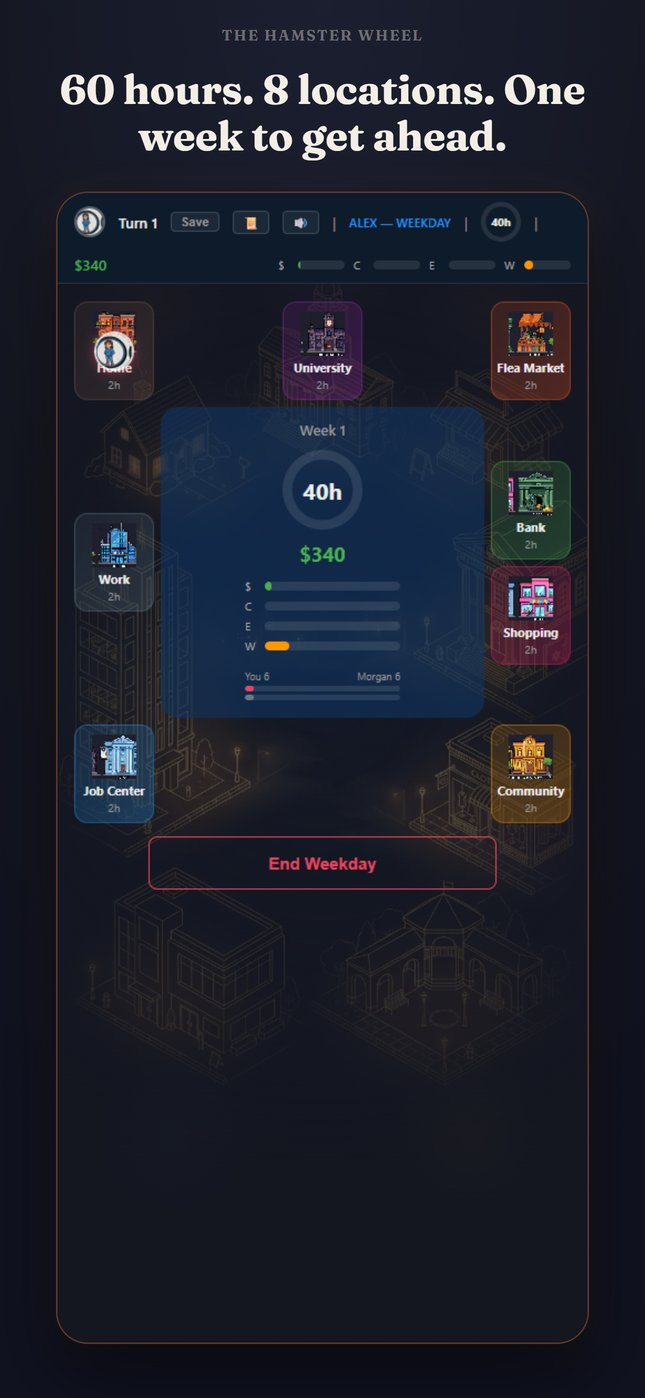
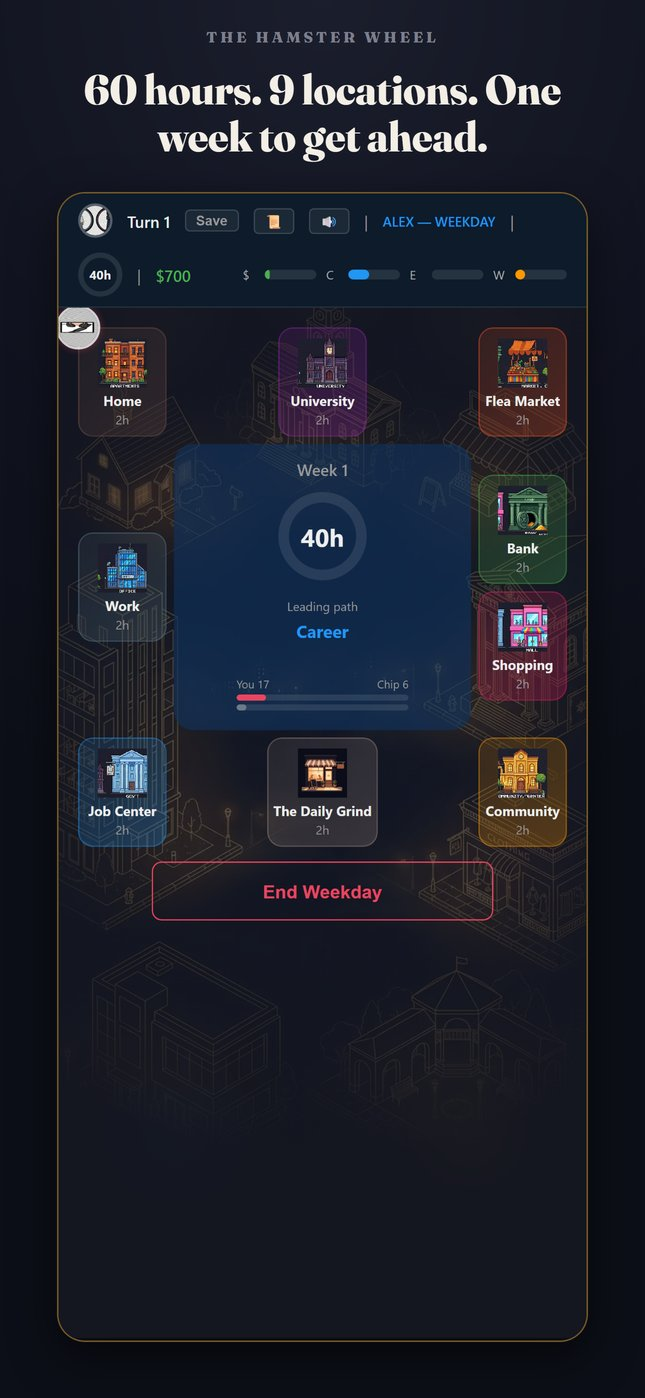
Show the 9-location board and a proper link-preview card
The board screenshot and press board shot still showed eight tiles with
"8 locations" in the caption; both now show The Daily Grind. og:image was
the square icon under summary_large_image; it is now a 1200x630 card.

diff --git a/index.html b/index.html
@@ -7,7 +7,10 @@
   <meta name="description" content="A satirical life-simulation strategy game. Allocate 60 hours a week, outsmart AI rivals, and navigate the economic chaos of 2026. Free to try on iOS.">
   <meta property="og:title" content="The Hamster Wheel">
   <meta property="og:description" content="Satirical life sim. 60 hours. 9 locations. Six rivals. Free to try on iOS.">
-  <meta property="og:image" content="https://kari-ann.github.io/hamster-wheel-pages/assets/icon.png">
+  <meta property="og:image" content="https://kari-ann.github.io/hamster-wheel-pages/assets/og-image.png">
+  <meta property="og:image:width" content="1200">
+  <meta property="og:image:height" content="630">
+  <meta name="twitter:image" content="https://kari-ann.github.io/hamster-wheel-pages/assets/og-image.png">
   <meta property="og:url" content="https://kari-ann.github.io/hamster-wheel-pages/">
   <meta name="twitter:card" content="summary_large_image">
 
